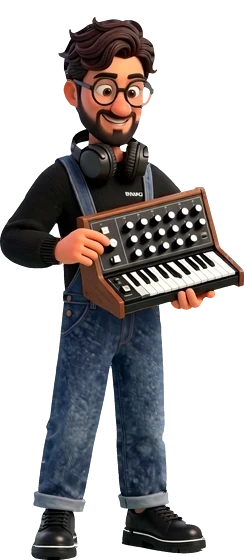
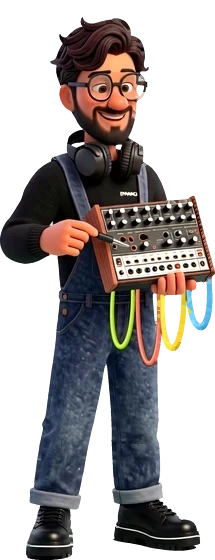
The Moog musician in the hero, the analog synth with hanging cables on the map; whole soles for the tester; faint dotted branch with a running light

diff --git a/index.html b/index.html
@@ -11,35 +11,35 @@
 <link rel="preconnect" href="https://fonts.gstatic.com" crossorigin>
 <link rel="stylesheet" href="https://fonts.googleapis.com/css2?family=Archivo:wdth,wght@62..125,100..900&family=Roboto+Flex:wdth,wght@25..151,100..1000&family=Montserrat:wght@600..900&display=swap">
 <script>try{if(localStorage.getItem("sfx-lang")==="uk"){document.documentElement.lang="uk";document.documentElement.classList.add("i18n-wait")}}catch(e){}</script>
-<link rel="stylesheet" href="css/style.css?v=202610242034">
+<link rel="stylesheet" href="css/style.css?v=202610242107">
 <link rel="preload" as="image" href="assets/system/scene-forest.webp" fetchpriority="high">
 <script type="importmap">
 {
   "imports": {
     "three": "https://cdn.jsdelivr.net/npm/three@0.170.0/build/three.module.min.js",
     "three/addons/": "https://cdn.jsdelivr.net/npm/three@0.170.0/examples/jsm/",
-    "./js/audio.js": "./js/audio.js?v=202610242034",
-    "./js/boom-frame.js": "./js/boom-frame.js?v=202610242034",
-    "./js/content.js": "./js/content.js?v=202610242034",
-    "./js/gift.js": "./js/gift.js?v=202610242034",
-    "./js/i18n-boot.js": "./js/i18n-boot.js?v=202610242034",
-    "./js/i18n-uk.js": "./js/i18n-uk.js?v=202610242034",
-    "./js/i18n.js": "./js/i18n.js?v=202610242034",
-    "./js/main.js": "./js/main.js?v=202610242034",
-    "./js/map.js": "./js/map.js?v=202610242034",
-    "./js/music/music.js": "./js/music/music.js?v=202610242034",
-    "./js/music/sound.js": "./js/music/sound.js?v=202610242034",
-    "./js/phone-speakers.js": "./js/phone-speakers.js?v=202610242034",
-    "./js/studio-anim.js": "./js/studio-anim.js?v=202610242034",
-    "./js/studio-console.js": "./js/studio-console.js?v=202610242034",
-    "./js/studio-foley.js": "./js/studio-foley.js?v=202610242034",
-    "./js/studio-piano.js": "./js/studio-piano.js?v=202610242034",
-    "./js/team-carousel.js": "./js/team-carousel.js?v=202610242034"
+    "./js/audio.js": "./js/audio.js?v=202610242107",
+    "./js/boom-frame.js": "./js/boom-frame.js?v=202610242107",
+    "./js/content.js": "./js/content.js?v=202610242107",
+    "./js/gift.js": "./js/gift.js?v=202610242107",
+    "./js/i18n-boot.js": "./js/i18n-boot.js?v=202610242107",
+    "./js/i18n-uk.js": "./js/i18n-uk.js?v=202610242107",
+    "./js/i18n.js": "./js/i18n.js?v=202610242107",
+    "./js/main.js": "./js/main.js?v=202610242107",
+    "./js/map.js": "./js/map.js?v=202610242107",
+    "./js/music/music.js": "./js/music/music.js?v=202610242107",
+    "./js/music/sound.js": "./js/music/sound.js?v=202610242107",
+    "./js/phone-speakers.js": "./js/phone-speakers.js?v=202610242107",
+    "./js/studio-anim.js": "./js/studio-anim.js?v=202610242107",
+    "./js/studio-console.js": "./js/studio-console.js?v=202610242107",
+    "./js/studio-foley.js": "./js/studio-foley.js?v=202610242107",
+    "./js/studio-piano.js": "./js/studio-piano.js?v=202610242107",
+    "./js/team-carousel.js": "./js/team-carousel.js?v=202610242107"
   }
 }
 </script>
-<script type="module" src="js/i18n-boot.js?v=202610242034"></script>
-<script type="module" src="js/main.js?v=202610242034"></script>
+<script type="module" src="js/i18n-boot.js?v=202610242107"></script>
+<script type="module" src="js/main.js?v=202610242107"></script>
 </head>
 <body>
 <a class="skip" href="#main">Skip to content</a>
@@ -89,7 +89,7 @@
       <div class="team" data-team data-start="1" role="region" aria-roledescription="carousel" aria-label="Our team: drag sideways or use the arrows to swap" tabindex="0">
         <div class="team__ring">
           <figure class="team__p" data-member="test" style="--h: .926">
-            <img class="team__body" src="assets/team/test.webp" srcset="assets/team/test-560.webp 249w, assets/team/test.webp 489w" sizes="(max-width: 1024px) 34vw, 17vw" alt="Illustration: a team member testing a mobile game on a phone" width="489" height="1100" decoding="async" draggable="false">
+            <img class="team__body" src="assets/team/test.webp" srcset="assets/team/test-560.webp 251w, assets/team/test.webp 493w" sizes="(max-width: 1024px) 34vw, 17vw" alt="Illustration: a team member testing a mobile game on a phone" width="493" height="1100" decoding="async" draggable="false">
           </figure>
           <figure class="team__p" data-member="rec" style="--h: 1">
             <img class="team__body" src="assets/team/rec-bare.webp" srcset="assets/team/rec-bare-560.webp 276w, assets/team/rec-bare.webp 543w" sizes="(max-width: 1024px) 38vw, 19vw" alt="Illustration: a team member recording sound with a boom microphone" width="543" height="1100" decoding="async" draggable="false">
@@ -98,7 +98,7 @@
             </div>
           </figure>
           <figure class="team__p" data-member="mix" style="--h: .905">
-            <img class="team__body" src="assets/team/mix.webp" srcset="assets/team/mix-560.webp 215w, assets/team/mix.webp 422w" sizes="(max-width: 1024px) 34vw, 17vw" alt="Illustration: a team member patching a small analog synthesizer" width="422" height="1100" decoding="async" draggable="false">
+            <img class="team__body" src="assets/team/mix.webp" srcset="assets/team/mix-560.webp 244w, assets/team/mix.webp 480w" sizes="(max-width: 1024px) 34vw, 17vw" alt="Illustration: a team member playing a vintage analog synthesizer" width="480" height="1100" decoding="async" draggable="false">
           </figure>
         </div>
         <div class="team__bar">
@@ -155,7 +155,7 @@
           <p class="stage__desc" id="stage-2-desc">We adapt the sound effects and the music to your game.</p>
           <p class="stage__status"><span class="stage__led" aria-hidden="true"></span>Sound tailored</p>
           <div class="stage__bay stage__bay--split" id="studio">
-            <div class="stage__fork" aria-hidden="true"><i></i></div>
+            <div class="stage__fork" aria-hidden="true"></div>
             <section class="bay" data-bay="sfx" aria-labelledby="bay-sfx">
               <h3 class="bay__title" id="bay-sfx"><span class="bay__dot" data-bay-dot="sfx" aria-hidden="true"></span>Sound effects</h3>
               <div class="bay__desk">
@@ -167,8 +167,7 @@
             <section class="bay" data-bay="music" aria-labelledby="bay-music">
               <h3 class="bay__title" id="bay-music"><span class="bay__dot" data-bay-dot="music" aria-hidden="true"></span>Music</h3>
               <div class="bay__desk">
-                <img class="bay__person bay__person--mix" src="assets/team/mix-map-560.webp" srcset="assets/team/mix-map-560.webp 244w, assets/team/mix-map.webp 480w" sizes="150px" alt="Illustration: a musician playing a vintage analog synthesizer" width="480" height="1100" loading="lazy" decoding="async">
-                <img class="bay__person bay__person--mix bay__person--front" src="assets/team/mix-map-moog-560.webp" srcset="assets/team/mix-map-moog-560.webp 244w, assets/team/mix-map-moog.webp 480w" sizes="150px" alt="" width="480" height="1100" loading="lazy" decoding="async">
+                <img class="bay__person bay__person--mix" src="assets/team/mix-map-560.webp" srcset="assets/team/mix-map-560.webp 215w, assets/team/mix-map.webp 422w" sizes="150px" alt="Illustration: a musician with a small analog synthesizer and patch cables" width="422" height="1100" loading="lazy" decoding="async">
                 <div class="principle__art principle__art--play" id="card-music" data-scene="keys" tabindex="0" role="group" aria-label="A small keyboard you can play" aria-describedby="piano-help"><span class="principle__hint" aria-hidden="true">Play me</span><span class="visually-hidden" id="piano-help">Click or tap the keys. With the keyboard, use A to L for white keys and W, E, T, Y, U, O, P for black keys.</span><img class="principle__img" src="assets/studio/music-640.webp" srcset="assets/studio/music-640.webp 640w, assets/studio/music-1024.webp 1024w" sizes="(max-width: 760px) 92vw, 300px" width="1024" height="768" loading="lazy" decoding="async" alt=""></div>
                 <button class="zoom-btn" type="button" data-zoom-open="card-music" data-zoom-label="Music" aria-label="Open the keyboard larger"><svg viewBox="0 0 24 24" aria-hidden="true"><path d="M14 4h6v6M20 4l-7 7M10 20H4v-6M4 20l7-7"/></svg></button>
               </div>

diff --git a/css/style.css b/css/style.css
@@ -1272,21 +1272,25 @@ ul { padding: 0; list-style: none; }
 .stage__bay { position: relative; margin-top: 14px; flex: 1; display: flex; flex-direction: column; justify-content: flex-end; }
 .stage__bay--split { --split-gap: clamp(12px, 1.3vw, 20px); display: grid; grid-template-columns: repeat(2, minmax(0, 1fr)); gap: 0 var(--split-gap); align-items: stretch; }
 .stage__bay--split .bay { display: flex; flex-direction: column; justify-content: space-between; }
-/* round W (the owner: stage 02 should branch; then: very thin, in small dots, barely there, lit on hover): a tiny node
-   under the stage, a dotted stem down from it, one dotted bar with rounded shoulders whose two ends drop onto the
-   middle of each part, sound effects and music, with small arrowheads; faint at rest, lime when the stage is lit */
+/* round W/X (the owner: stage 02 should branch; then: tiny dots, barely there, and on hover a light runs along them):
+   js/map.js draws it in px of this box: a node under the stage, a stem, one bar with rounded shoulders whose ends drop
+   onto the middle of each part. At rest faint dots; lit with the route a little lime; on hover a lime light runs
+   down both branches, seen only through the dots */
 .stage__bay--split { padding-top: 50px; }
 .stage__fork {
   position: absolute; top: 0; left: calc((100% - var(--split-gap)) / 4); right: calc((100% - var(--split-gap)) / 4); height: 40px;
-  color: rgba(255, 243, 214, .3); pointer-events: none; transition: color .3s, filter .3s;
+  color: rgba(255, 243, 214, .2); pointer-events: none; transition: color .3s;
 }
-.stage__fork::before { content: ''; position: absolute; left: 50%; top: 2px; width: 5px; height: 5px; translate: -50% 0; border-radius: 50%; background: currentColor; }
-.stage__fork::after { content: ''; position: absolute; left: 50%; top: 9px; height: 6px; translate: -50% 0; border-left: 2px dotted currentColor; }
-.stage__fork i { position: absolute; left: 0; right: 0; top: 15px; bottom: 6px; border: 2px dotted currentColor; border-bottom: 0; border-radius: 14px 14px 0 0; }
-.stage__fork i::before, .stage__fork i::after { content: ''; position: absolute; top: calc(100% + 1px); width: 7px; height: 5px; background: currentColor; clip-path: polygon(0 0, 100% 0, 50% 100%); }
-.stage__fork i::before { left: -4.5px; }   /* centred on the left line (the border's middle is 1 px outside the box) */
-.stage__fork i::after { right: -4.5px; }
-.stage:hover .stage__fork, .stage.is-lit .stage__fork, .stage.is-here .stage__fork { color: var(--lime); filter: drop-shadow(0 0 4px rgba(198, 244, 50, .5)); }
+.stage__fork svg { position: absolute; inset: 0; overflow: visible; }
+.stage__fork-dots { fill: none; stroke: currentColor; stroke-width: 1.2; stroke-linecap: round; stroke-dasharray: 0 5; }
+.stage__fork-node { fill: currentColor; }
+.stage__fork-mask { fill: none; stroke: #fff; stroke-width: 2.6; stroke-linecap: round; stroke-dasharray: 0 5; }
+.stage__fork-run { fill: none; stroke: var(--lime); stroke-width: 6; stroke-linecap: round; stroke-dasharray: 36px var(--len); stroke-dashoffset: 36px; opacity: 0; }
+.stage.is-lit .stage__fork, .stage.is-here .stage__fork { color: rgba(198, 244, 50, .4); }
+.stage:hover .stage__fork-run, .stage:focus-within .stage__fork-run { opacity: 1; animation: forkRun 1.3s linear infinite; }
+.stage:hover .stage__fork svg, .stage:focus-within .stage__fork svg { filter: drop-shadow(0 0 3px rgba(198, 244, 50, .55)); }
+@keyframes forkRun { from { stroke-dashoffset: 36px; } to { stroke-dashoffset: calc(-1 * var(--len)); } }
+@media (prefers-reduced-motion: reduce) { .stage:hover .stage__fork-run, .stage:focus-within .stage__fork-run { animation: none; stroke-dasharray: none; } }
 .bay { position: relative; min-width: 0; }
 .bay__title { display: flex; align-items: center; justify-content: center; text-align: center; gap: 8px; margin-bottom: 6px; font-weight: 800; font-stretch: 108%; font-size: .9375rem; }
 .bay__dot { position: relative; width: 9px; height: 9px; border-radius: 50%; background: var(--sun); box-shadow: 0 0 0 3px rgba(255, 191, 31, .22); }
@@ -1302,12 +1306,7 @@ ul { padding: 0; list-style: none; }
   height: calc(var(--fig) * var(--k)); width: auto; max-width: none; pointer-events: none; user-select: none;
 }
 [data-bay="sfx"] .bay__desk { --k: 1.12; --waist: .53; --person-x: 7%; }   /* round U2: her map pose with the handheld recorder (rec-map.webp) */
-[data-bay="music"] .bay__desk { --k: 1.14; --waist: .5; --person-x: 22%; }   /* round W: his map pose with the Moog-like synth (mix-map.webp), behind the card */
-.bay__person--front { z-index: 2; }   /* round W (the owner): only his Moog comes out in front of the card frame (mix-map-moog.webp: the same picture, the synth alone) */
-/* the label stays readable over the Moog (the Ukrainian «Пограйте на мені» is long enough to reach under it): the
-   card makes no layer of its own here, so its label can stand above the synth while the card stays above him */
-[data-bay="music"] .bay__desk .principle__art { z-index: auto; }
-[data-bay="music"] .bay__desk .principle__hint { z-index: 3; }
+[data-bay="music"] .bay__desk { --k: 1.1; --waist: .62; --person-x: 22%; }   /* round X: his map pose with the small analog synth and its hanging cables (mix-map.webp): the synth and the loops above the card, the loops' ends behind its edge (the Moog went to the hero) */
 /* stage 03: the tester stands beside the Game Boy */
 .bay__desk--side { display: grid; grid-template-columns: auto minmax(0, 1fr); align-items: end; gap: 6px; padding-top: 0; }
 .bay__desk--side .bay__person { position: relative; left: auto; top: auto; margin-bottom: -2px; height: calc(var(--fig) * .98); }

diff --git a/js/i18n-uk.js b/js/i18n-uk.js
@@ -116,7 +116,7 @@ export const UK = {
   'Sound effects: a boot over dirt, sand, grass and snow. Press a surface to hear the boot step on it.':
     'Звукові ефекти: черевик над землею, піском, травою і снігом. Натисніть на поверхню, щоб почути крок по ній.',
   'Open the sound effects larger': 'Відкрити звукові ефекти більшими',
-  'Illustration: a musician playing a vintage analog synthesizer': 'Ілюстрація: музикант грає на вінтажному аналоговому синтезаторі',
+  'Illustration: a musician with a small analog synthesizer and patch cables': 'Ілюстрація: музикант із невеликим аналоговим синтезатором і патч-кабелями',
   'Illustration: recording sound with a handheld recorder': 'Ілюстрація: запис звуку ручним рекордером',
   'Open the keyboard larger': 'Відкрити клавіатуру більшою',
   'We connect the solution to the game and check its behaviour and balance in gameplay.': 'Підключаємо рішення до гри й перевіряємо його поведінку та баланс у геймплеї.',
@@ -138,7 +138,7 @@ export const UK = {
   'Our team: drag sideways or use the arrows to swap': 'Наша команда: потягніть убік або скористайтеся стрілками, щоб поміняти місцями',
   'Illustration: a team member testing a mobile game on a phone': 'Ілюстрація: учасник команди перевіряє мобільну гру на телефоні',
   'Illustration: a team member recording sound with a boom microphone': 'Ілюстрація: учасниця команди записує звук бум-мікрофоном',
-  'Illustration: a team member patching a small analog synthesizer': 'Ілюстрація: учасник команди комутує невеликий аналоговий синтезатор',
+  'Illustration: a team member playing a vintage analog synthesizer': 'Ілюстрація: учасник команди грає на вінтажному аналоговому синтезаторі',
   'Previous team member': 'Попередній учасник команди',
   'Next team member': 'Наступний учасник команди',
   'Recording and sound effects': 'Запис звуку й звукові ефекти',

diff --git a/js/main.js b/js/main.js
@@ -72,7 +72,7 @@ function initHeader() {
 // line on top, the phone under it, the team under the phone. The people's tops come from their pictures:
 // bands of their silhouettes, every 4 % of the height (_dev/tools/team_silhouette.py), her microphone from
 // js/boom-frame.js; thin things (her pole) are left out.
-const SILHOUETTE = {"test":[[0.0,0.04,0.452,0.646],[0.04,0.08,0.413,0.808],[0.08,0.12,0.395,0.816],[0.12,0.16,0.405,0.789],[0.16,0.2,0.38,0.697],[0.2,0.24,0.018,0.726],[0.24,0.28,0.004,0.871],[0.28,0.32,0.0,0.918],[0.32,0.36,0.006,0.955],[0.36,0.4,0.047,0.988],[0.4,0.44,0.059,1.0],[0.44,0.48,0.129,0.998],[0.48,0.52,0.276,0.975],[0.52,0.56,0.274,0.863],[0.56,0.6,0.288,0.787]],"rec":[[0.08,0.12,0.549,0.956],[0.12,0.16,0.54,1.0],[0.16,0.2,0.556,0.994],[0.2,0.24,0.56,0.954],[0.24,0.28,0.558,0.943],[0.28,0.32,0.355,0.932],[0.32,0.36,0.361,0.89],[0.36,0.4,0.324,0.936],[0.4,0.44,0.324,0.971],[0.44,0.48,0.354,0.994],[0.48,0.52,0.49,0.998],[0.52,0.56,0.481,0.965],[0.56,0.6,0.499,0.899]],"mix":[[0.0,0.04,0.457,0.585],[0.04,0.08,0.277,0.664],[0.08,0.12,0.235,0.675],[0.12,0.16,0.261,0.692],[0.16,0.2,0.275,0.666],[0.2,0.24,0.334,0.633],[0.24,0.28,0.254,0.668],[0.28,0.32,0.142,0.742],[0.32,0.36,0.092,0.912],[0.36,0.4,0.024,0.938],[0.4,0.44,0.0,0.967],[0.44,0.48,0.002,0.998],[0.48,0.52,0.273,1.0],[0.52,0.56,0.273,0.87],[0.56,0.6,0.261,0.725]]};
+const SILHOUETTE = {"test":[[0.0,0.04,0.452,0.647],[0.04,0.08,0.414,0.807],[0.08,0.12,0.394,0.815],[0.12,0.16,0.404,0.789],[0.16,0.2,0.379,0.7],[0.2,0.24,0.018,0.72],[0.24,0.28,0.004,0.87],[0.28,0.32,0.0,0.917],[0.32,0.36,0.006,0.953],[0.36,0.4,0.045,0.986],[0.4,0.44,0.059,1.0],[0.44,0.48,0.116,1.0],[0.48,0.52,0.276,0.98],[0.52,0.56,0.274,0.87],[0.56,0.6,0.288,0.791]],"rec":[[0.08,0.12,0.549,0.956],[0.12,0.16,0.54,1.0],[0.16,0.2,0.556,0.994],[0.2,0.24,0.56,0.954],[0.24,0.28,0.558,0.943],[0.28,0.32,0.355,0.932],[0.32,0.36,0.361,0.89],[0.36,0.4,0.324,0.936],[0.4,0.44,0.324,0.971],[0.44,0.48,0.354,0.994],[0.48,0.52,0.49,0.998],[0.52,0.56,0.481,0.965],[0.56,0.6,0.499,0.899]],"mix":[[0.0,0.04,0.379,0.56],[0.04,0.08,0.279,0.625],[0.08,0.12,0.24,0.633],[0.12,0.16,0.26,0.644],[0.16,0.2,0.26,0.606],[0.2,0.24,0.31,0.579],[0.24,0.28,0.258,0.608],[0.28,0.32,0.15,0.698],[0.32,0.36,0.092,0.852],[0.36,0.4,0.025,0.877],[0.4,0.44,0.0,0.9],[0.44,0.48,0.002,0.992],[0.48,0.52,0.26,1.0],[0.52,0.56,0.256,0.883],[0.56,0.6,0.248,0.66]]};
 const PHONE_RATIO = 2.05;
 
 // every place the people pass on the carousel (k = -1 left ... 0 middle ... +1 right), as rects on the stage

diff --git a/js/map.js b/js/map.js
@@ -69,6 +69,23 @@ export function initMap({ reduce } = {}) {
       pulse.style.setProperty('--len', `${len}px`);
       segs.push(g);
     }
+    // round X (the owner): the branch under stage 02 in px of its own box: faint little dots, and on hover a light
+    // runs along them (a lime stroke seen only through the dots) from the stage down to both of its parts
+    $$('.stage__fork', root).forEach((f, k) => {
+      f.replaceChildren();
+      const w = f.clientWidth, h = f.clientHeight, cx = w / 2, y = 17, R = Math.min(12, h / 3), id = `fork-dots-${k}`;
+      if (w < 40) return;
+      const s = svg('svg', { viewBox: `0 0 ${w} ${h}`, width: w, height: h }, f);
+      const legs = [`M${cx} 5V${y}H${1 + R}Q1 ${y} 1 ${y + R}V${h - 2}`, `M${cx} 5V${y}H${w - 1 - R}Q${w - 1} ${y} ${w - 1} ${y + R}V${h - 2}`];
+      const mask = svg('mask', { id, maskUnits: 'userSpaceOnUse', x: -6, y: -6, width: w + 12, height: h + 12 }, svg('defs', {}, s));
+      legs.forEach((d) => svg('path', { d, class: 'stage__fork-mask' }, mask));
+      svg('circle', { cx, cy: 2, r: 1.6, class: 'stage__fork-node' }, s);
+      legs.forEach((d) => svg('path', { d, class: 'stage__fork-dots' }, s));
+      legs.forEach((d) => {
+        const run = svg('path', { d, class: 'stage__fork-run', mask: `url(#${id})` }, s);
+        run.style.setProperty('--len', `${run.getTotalLength().toFixed(1)}px`);
+      });
+    });
     paint();
   };
 
